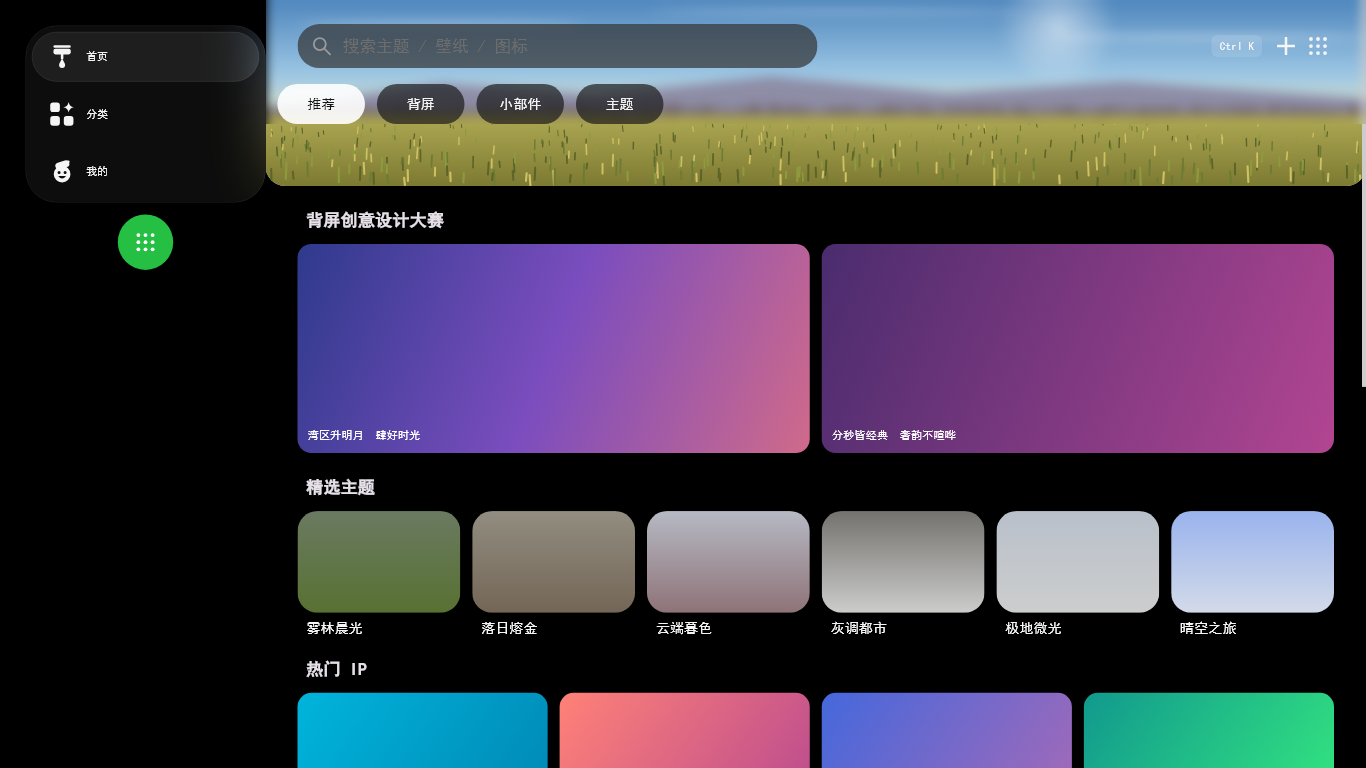
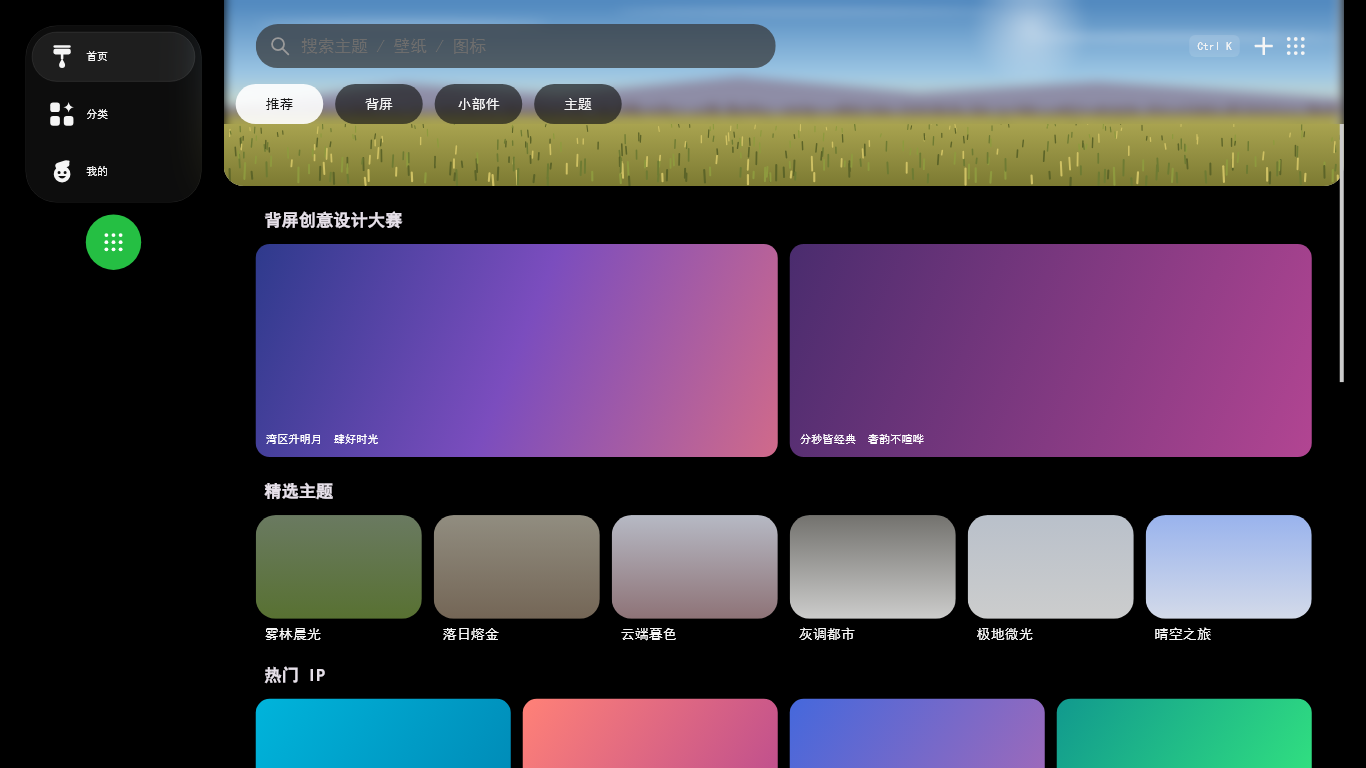
refactor(sidenav): 展开栏 240 → 176dp，按标签实际字号重推（「太宽了」）
「首页」的选中胶囊在 240 栏里 70% 是空白：推导时把标签当成 13.85dp
（pillLabel 胶囊标签的字号），展开态实际用 navLabel = 10.5dp。

重推：2×内缩18 + 图标24 + 间距12 + 标签 + 2×6.6
      = 2 字 106 / 6 字 148 / 8 字 169 → 取 176（留一档余量）
2 字标签尾部空白 133.8 → 69.8dp；派生 expandedItemWidth 162.8、
expandedGutterWidth 201.5；相关注释里「240 吃三成画布 / 剩 ≥758dp」
改为「201.5 吃 26% / 剩 ≥822dp」。

连带更正模糊预算：上一批注释的 214,182 是按手机高 156 估算的，
实际桌面 headerTopInset = 24 → 高 124。逐层实测（scratch 打
BackdropFilter size+origin）：顶栏 1120×124 + 展开栏 176×177.1
= 170,050dp²（2 层）；README 桌面「我的」77,900 是窄栏时代实测、
已过期 → 92,174。手机 75,701/35,799、平板 117,843/52,142 实测不变。
阈值 220,000 → 175,000（实测 +3%，与手机/平板同幅度），
桌面「我的」纳入断言（≤95,000），README 表从此有测试守着。

栏收窄后剩余宽 1164.5 首次触到内容列上限 → 断言改「封顶 1120」。

验证：244 例全绿、analyze 0 error；手机/平板预览图零变化。

diff --git a/test/desktop_nav_test.dart b/test/desktop_nav_test.dart
@@ -12,7 +12,7 @@ import 'package:mi_like_ui/demo/mock_pages.dart';
 import 'package:mi_like_ui/src/components/navigation/glass_side_nav_bar/side_nav_bar_painter.dart';
 
 /// 宽屏**内容列**在给定窗口下的几何（`MiContentColumn` 1120dp 上限 + 居中）：
-/// 返回两侧留白与列宽。侧栏列宽先被扣掉（桌面档是**展开态** 265.5），剩下
+/// 返回两侧留白与列宽。侧栏列宽先被扣掉（桌面档是**展开态** 201.5），剩下
 /// 的区域再决定列宽。
 ({double gutter, double width}) contentColumn(Size window) {
   final gutter = MiGlassSideNavMetrics.gutterWidthFor(
@@ -149,12 +149,30 @@ void main() {
       );
     });
 
-    test('展开态：240dp 带文字栏（推导值），条目宽 = 栏宽 − 2×内边距', () {
-      expect(MiGlassSideNavMetrics.expandedRailWidth, 240);
+    test('展开态：176dp 带文字栏（推导值），条目宽 = 栏宽 − 2×内边距', () {
+      expect(MiGlassSideNavMetrics.expandedRailWidth, 176);
       expect(
         MiGlassSideNavMetrics.expandedItemWidth,
-        closeTo(240 - 2 * MiGlassSideNavMetrics.railInnerPad, 1e-9),
+        closeTo(176 - 2 * MiGlassSideNavMetrics.railInnerPad, 1e-9),
       );
+      // 装得下 8 个汉字标签：2×内缩 + 图标 + 间距 + 8×标签字号 ≤ 条目宽
+      const labelChars = 8;
+      final contentNeeded = 2 * MiGlassSideNavMetrics.expandedItemInset +
+          MiGlassSideNavMetrics.iconSize +
+          MiGlassSideNavMetrics.expandedIconLabelGap +
+          labelChars * MiTypography.navLabel.fontSize!;
+      expect(
+        contentNeeded,
+        lessThanOrEqualTo(MiGlassSideNavMetrics.expandedItemWidth),
+        reason: '8 字标签应装得下（留一档余量）',
+      );
+      // 「首页」这类 2 字标签：尾部空白应显著小于首版 240 的 133.8dp
+      final shortLabelContent = 2 * MiGlassSideNavMetrics.expandedItemInset +
+          MiGlassSideNavMetrics.iconSize +
+          MiGlassSideNavMetrics.expandedIconLabelGap +
+          2 * MiTypography.navLabel.fontSize!;
+      final trailing = MiGlassSideNavMetrics.expandedItemWidth - shortLabelContent;
+      expect(trailing, lessThan(80), reason: '2 字标签尾部空白应 < 80dp');
       expect(
         MiGlassSideNavMetrics.expandedGutterWidth,
         closeTo(
@@ -163,7 +181,7 @@ void main() {
           1e-9,
         ),
       );
-      // 断点：容器宽 ≥ 1024 才展开（平板竖屏让出 240dp 不划算）
+      // 断点：容器宽 ≥ 1024 才展开（平板竖屏让出栏宽不划算）
       expect(MiBreakpoints.usesExpandedRail(1023), isFalse);
       expect(MiBreakpoints.usesExpandedRail(1024), isTrue);
       expect(MiBreakpoints.usesExpandedRail(768), isFalse);
@@ -315,7 +333,7 @@ void main() {
       expect(pillPainter(tester).palette.scrimGradient, isNotNull);
     });
 
-    testWidgets('展开态：240dp 带文字栏，胶囊满宽、纵向节奏与窄栏同源', (tester) async {
+    testWidgets('展开态：176dp 带文字栏，胶囊满宽、纵向节奏与窄栏同源', (tester) async {
       setWindow(tester, const Size(400, 600));
       addTearDown(tester.view.reset);
 
@@ -755,7 +773,7 @@ void main() {
       // 铺满：画面 = 窗口，四周没有留白 / 圆角卡片（页面底色仍铺满窗口，
       // 只是内容列限宽 1120 并居中）
       expect(rail.left, closeTo(MiGlassSideNavMetrics.railMargin, 0.01));
-      // 桌面档（≥1024）换**展开栏**：240dp 带文字标签
+      // 桌面档（≥1024）换**展开栏**：176dp 带文字标签
       expect(
         rail.width,
         closeTo(MiGlassSideNavMetrics.expandedRailWidth, 0.01),
@@ -795,8 +813,13 @@ void main() {
             MiGlassSideNavMetrics.expandedGutterWidth + col.gutter, 0.01),
           reason: '页面应落在展开侧栏右侧的内容列里（列宽上限 1120 + 居中）');
       expect(page.top, closeTo(0, 0.01));
-      // 展开栏让出 265.5 后剩 1100.5 < 1120 → 列宽取剩余宽（上限没到）
-      expect(col.width, closeTo(window.width - MiGlassSideNavMetrics.expandedGutterWidth, 0.01));
+      // 展开栏让出 201.5 后剩 1366 − 201.5 = 1164.5 > 1120 → 列宽取**上限**
+      // 1120（栏收窄后腾出的空间反而先触到列宽封顶）
+      expect(
+        col.width,
+        closeTo(MiBreakpoints.contentMaxWidth, 0.01),
+        reason: '剩余宽超过内容列上限，应封顶在 1120',
+      );
       expect(page.width, closeTo(col.width, 0.01));
       expect(page.height, closeTo(window.height, 0.01));
       // 内容完整落在窗口内

diff --git a/test/perf_budget_test.dart b/test/perf_budget_test.dart
@@ -88,23 +88,31 @@ void main() {
 
   testWidgets('深色·桌面 1366×768：侧栏只多一层模糊', (tester) async {
     addTearDown(tester.view.reset);
-    // 桌面档：铺满窗口（1366）+ **展开侧栏**（240dp 带文字，≥1024 换形态）→
-    // 内容列 = 1366 − 265.5 = 1100.5（还没到 1120 上限），头部区那一段
-    // 1100.5 × 156 = 171,678 + 展开栏 240 × 177.1 = 42,504 → 214,182dp²，
-    // 仍只有 2 层。
+    // 桌面档（实测分层，`scratch_perf_print_test` 量的每层几何）：
+    //  * 顶栏磨砂 1120 × **124** = 138,880 —— 列宽 1366 − 201.5 = 1164.5 已触
+    //    内容列上限 1120；高 124 = 桌面 `headerTopInset` **24** + 搜索栏 44.1
+    //    + 间隙 16 + 胶囊行 39.9（⚠ 不是手机的 156：上一批按 156 估算出
+    //    214,182 是**错的**，那会高估 35k）；
+    //  * 展开侧栏 176 × 177.1 = 31,170（栏宽从 240 收到 176）。
+    //  合计 **170,050dp² / 2 层**。
     //
-    // 面积比窄栏时代（191,615）多 ~22,500：展开栏比窄栏宽 144.6dp，这是
-    // 「常驻侧栏带文字」的固有代价 —— 换来的是桌面档不再让图标悬在空白里、
-    // 条目可读性与 Material / Windows Settings 同档。层数没变（一次大 filter
-    // 比多次小 filter 便宜），阈值按新形态重标。
+    // 对照：窄栏时代（95.4 栏、顶栏 156 高）= 191,615；本档降了 ~21k ——
+    // 收窄栏宽 + 桌面顶栏顶部让位 24 两处一起省的。层数没变（一次大 filter
+    // 比多次小 filter 便宜），阈值按实测值 +3% 重标（与手机 / 平板档同一幅度）。
     final desktop = await measure(tester, const Size(1366, 768));
     expect(desktop.count, lessThanOrEqualTo(3), reason: '桌面 $desktop');
-    expect(desktop.area, lessThanOrEqualTo(220000), reason: '桌面 $desktop');
+    expect(desktop.area, lessThanOrEqualTo(175000), reason: '桌面 $desktop');
 
     // 分类页同一形态 → 同预算
     final showcase = await measure(tester, const Size(1366, 768), tab: '分类');
     expect(showcase.count, lessThanOrEqualTo(3), reason: '桌面分类 $showcase');
-    expect(showcase.area, lessThanOrEqualTo(220000), reason: '桌面分类 $showcase');
+    expect(showcase.area, lessThanOrEqualTo(175000), reason: '桌面分类 $showcase');
+
+    // 「我的」= 大标题形态的**渐进曲线**（5 段 × 1120 宽，σ 阶梯在压色实心
+    // 段之下先剔掉 3 段）+ 展开栏 → 实测 6 层 / 92,174。
+    final mine = await measure(tester, const Size(1366, 768), tab: '我的');
+    expect(mine.count, lessThanOrEqualTo(6), reason: '桌面我的 $mine');
+    expect(mine.area, lessThanOrEqualTo(95000), reason: '桌面我的 $mine');
   });
 
   testWidgets('深色顶栏：不透明叠色段内不绘制模糊', (tester) async {

diff --git a/lib/src/components/navigation/glass_side_nav_bar/side_nav_bar_metrics.dart b/lib/src/components/navigation/glass_side_nav_bar/side_nav_bar_metrics.dart
@@ -55,13 +55,25 @@ class MiGlassSideNavMetrics {
   // 纵向节奏（条目高 / 内边距 / 间隙），横向按「图标 + 文字」的通行
   // 桌面侧栏形态给值。
 
-  /// 展开态栏宽 **240**：图标 24 + 间距 12 + 标签区 ~150（4 个汉字 13.85dp
-  /// ≈ 55，留两倍余量给更长文案与尾部呼吸），再加两侧内边距 6.6×2 与
-  /// 条目内容内缩 18×2 —— 与 Material / Windows Settings 常驻侧栏
-  /// （200…320）同量级。
-  static const double expandedRailWidth = 240;
+  /// 展开态栏宽 **176**：按展开态实际字号 `MiTypography.navLabel`（10.5dp，
+  /// 与底部栏同款）重推 ——
+  ///
+  /// `2×内缩 18 + 图标 24 + 间距 12 + 标签 + 2×栏内边距 6.6`：
+  ///  * 2 字（首页 / 分类 / 我的）→ 标签 21 → 栏 **106.2**；
+  ///  * 6 字 → 标签 63 → 栏 **148.2**；
+  ///  * 7 字 → 标签 73.5 → 栏 **158.7**；
+  ///  * 8 字 → 标签 84 → 栏 **169.2**。
+  ///
+  /// 取 176 = 8 字上限 169.2 再留一档余量（西文混排 / 字距）。首版取的 240
+  /// 是**错的**：推导时把标签当成 13.85dp（那是 `pillLabel` 胶囊标签的字号）
+  /// 又翻倍留量，实际展开态用 10.5dp —— 结果「首页」的选中胶囊 70% 是空白。
+  ///
+  /// 与 Material / Windows Settings 常驻侧栏（200…320）比偏窄，但那两家的
+  /// 标签普遍 6…8 字且字号 13…14；本库标签 10.5dp、常见 2…4 字，宽度该跟着
+  /// 内容走而不是跟着别人的栏走。
+  static const double expandedRailWidth = 176;
 
-  /// 展开态条目（选中胶囊）宽 = 栏宽 − 2×内边距 = 226.8。
+  /// 展开态条目（选中胶囊）宽 = 栏宽 − 2×内边距 = 162.8。
   static const double expandedItemWidth = expandedRailWidth - 2 * railInnerPad;
 
   /// 展开态条目内容（图标左缘）到胶囊左缘的内缩。
@@ -70,7 +82,7 @@ class MiGlassSideNavMetrics {
   /// 展开态图标 → 标签间距（[MiDimens.spaceMd] 档）。
   static const double expandedIconLabelGap = MiDimens.spaceMd;
 
-  /// 展开态侧栏占用列的总宽（= 留白 + 展开栏宽 = 265.5）。
+  /// 展开态侧栏占用列的总宽（= 留白 + 展开栏宽 = 201.5）。
   static const double expandedGutterWidth = railMargin + expandedRailWidth;
 
   /// 侧栏列宽（按形态取窄栏 / 展开栏），示例外壳给内容让位时用它。

diff --git a/lib/src/utils/responsive.dart b/lib/src/utils/responsive.dart
@@ -71,10 +71,10 @@ class MiBreakpoints {
   static const double desktop = 1024;
 
   /// **展开侧栏断点**：画面容器宽 ≥ 该值时，侧边导航栏换**带文字标签的
-  /// 展开态**（约 240dp），否则用窄栏（95.4dp，只有图标 + 小字）。
+  /// 展开态**（176dp），否则用窄栏（95.4dp，只有图标 + 小字）。
   ///
-  /// 取 [desktop] 同值（**推导值**）：平板竖屏（768）让出 240dp 会吃掉
-  /// 三成画布宽，不划算；桌面（≥1024）让出 240dp 之后仍剩 ≥758dp，
+  /// 取 [desktop] 同值（**推导值**）：平板竖屏（768）让出展开栏 + 留白
+  /// （201.5）会吃掉 26% 画布宽，不划算；桌面（≥1024）让出之后仍剩 ≥822dp，
   /// 而常驻侧栏带文字是桌面应用的通行形态（Material / Windows Settings /
   /// MReader 桌面档同款）。
   static const double expandedRail = desktop;

diff --git a/lib/src/components/navigation/glass_side_nav_bar/side_nav_bar.dart b/lib/src/components/navigation/glass_side_nav_bar/side_nav_bar.dart
@@ -86,7 +86,7 @@ class MiGlassSideNavBar extends StatefulWidget {
   ///
   ///  * `false`（默认）：窄栏 95.4dp —— 图标在上、小字标签在下（与底部栏
   ///    同一套度量纵向换轴），平板 / 窄窗用；
-  ///  * `true`：展开栏 [MiGlassSideNavMetrics.expandedRailWidth]（240dp）——
+  ///  * `true`：展开栏 [MiGlassSideNavMetrics.expandedRailWidth] ——
   ///    图标在左、标签在右、整条目是一个胶囊，桌面用。全部几何取
   ///    [MiGlassSideNavMetrics] 的展开态推导值；纵向节奏（条目高 / 间隙 /
   ///    内边距 / 飞行-沉降-按压动效）与窄栏逐帧同源。

diff --git a/lib/demo/demo_app.dart b/lib/demo/demo_app.dart
@@ -242,7 +242,7 @@ class _DemoHomeState extends State<DemoHome> {
             builder: (context, constraints) {
               final sideNav = MiBreakpoints.usesSideNav(constraints.maxWidth);
               // 展开侧栏（带文字标签）：容器宽 ≥ 1024 才换 —— 平板竖屏让出
-              // 240dp 会吃掉三成画布，桌面让出后仍剩 ≥758dp。
+              // 展开栏 + 留白（201.5）会吃掉 26% 画布，桌面让出后仍剩 ≥822dp。
               final expandedRail =
                   sideNav && MiBreakpoints.usesExpandedRail(constraints.maxWidth);
               return Container(

diff --git a/.workbuddy/memory/MEMORY.md b/.workbuddy/memory/MEMORY.md
@@ -104,13 +104,17 @@
 - 截含光标的页面**不能 pumpAndSettle** → 固定 pump 到确定时长。
 
 ## 宽屏第二批配方（2026-10-23，全部推导 —— 素材只有手机档）
-- **展开侧栏** `MiGlassSideNavBar.expanded`：容器 ≥1024（`usesExpandedRail`）换 **240dp**（`expandedItemWidth` 226.8、内缩 18、图文距 12），条目横排 icon+label；平板仍窄栏 95.4。⚠ 横排 Row **必须钉 `expandedItemWidth` 定宽**（外层 Column 是居中对齐，不定宽会按自然宽居中、内缩不从胶囊左缘量起）。
+- **展开侧栏** `MiGlassSideNavBar.expanded`：容器 ≥1024（`usesExpandedRail`）换 **176dp**（`expandedItemWidth` 162.8、内缩 18、图文距 12），条目横排 icon+label；平板仍窄栏 95.4（展开栏+留白 201.5 = 768 的 26%）。
+  - ⚠ **首版 240 是错的**（用户反馈「太宽了」）：推导时把标签当成 13.85dp（那是 `pillLabel` 胶囊标签的字号），展开态实际用 `navLabel` = **10.5dp** → 2 字标签的胶囊 70% 是空白。正确反推：`2×内缩18 + 图标24 + 间距12 + 标签 + 2×6.6` = 2 字 106 / 6 字 148 / 8 字 169 → 取 176。**宽度跟着内容走，先确认字号再算**。
+  - ⚠ 横排 Row **必须钉 `expandedItemWidth` 定宽**（外层 Column 是居中对齐，不定宽会按自然宽居中、内缩不从胶囊左缘量起）。
 - **顶栏三参数**（手机传默认值逐像素不变）：`headerTopInset` 桌面 **24**、`searchBarMaxWidth` 桌面 **520**、`actions` 右侧动作区（搜索转场淡出退排版）。`_searchRow` 分手机 Stack / 宽屏 Row 两条路径，**手机路径一字不动**。
 - **桌面弹窗** `MiDialogMetrics.isWide(容器 ≥1024)`：居中限宽 **440**、圆角 **16**、`position` 失效；手机档用 `left/right=sideMargin` **自适应**（写死 width 369.2 会让窄容器溢出、平板原行为是撑满边距之间）。正文行数按**实际卡宽**排版。
 - **桌面路由** `MiCardPageRouteMetrics.isWide(窗口 ≥1024)`：**4dp 抬起 + 同色幕布**（`ColoredBox` 页底色 alpha 1→0）**220ms**（`Interval(0,0.55)` 落在原 400ms 里 —— `transitionDuration` 构造期定死、拿不到窗口宽）、圆角 ≤16；下层无视差不压暗。⚠ **淡入禁用 `Opacity`/`FadeTransition`**（新页含磨砂顶栏，saveLayer 清空自己的 backdrop）→ 用同色幕布。测试读 alpha 用 `MiCardPageRoute.wideVeilKey`。
 - **悬停快捷操作** `MiThemeCard.quickActions`：黑@45%（token `cardQuickActionsScrim`）+ `AnimatedSlide` 滑入（Transform 无 saveLayer）、`IgnorePointer.ignoring` 联动；`quickActions==null` 不挂（手机档）。悬停态由 `MiHoverFeedback.onHoverChanged` 单点维护。
 - **滚动降 σ** `MiGradientBlur.sigmaScale` / `MiTopBar.sigmaScale`（默认 1.0）：demo 滚动中 0.6、停 120ms 恢复。形状（段位/段高）不变只改强度，低于 `minVisibleSigma` 的尾段照常剔除；两档 σ 各自进 `MiFilterCache`。
-- **桌面模糊预算**：1366 面积 191,615 → **214,182 dp²**（展开栏宽 +144.6，**层数仍 2**），阈值 196,000 → **220,000**（README 表已同步）。
+- **桌面模糊预算**：1366 实测 **170,050 dp²**（2 层 = 顶栏 1120×**124** + 展开栏 176×177.1），比窄栏时代的 191,615 低 ~21k；阈值 **175,000**（按实测 +3%，与手机 78k / 平板 122k 同幅度）。README 表的手机 75,701 / 35,799、平板 117,843 / 52,142 是对的。
+  - ⚠ **性能/几何数字必须实测，别按推算写进注释**：上一批把桌面顶栏高度按手机的 **156** 算（实际 `headerTopInset` 桌面 24 → 高 **124**），得出 214,182 并写进了 README/CHANGELOG/阈值 —— 实测是 178,966，错 35k。查法：scratch 测试遍历 `BackdropFilter` 打 `size + localToGlobal`（`.workbuddy/scratch_*_test.dart`，跑完删）。
+  - 桌面「我的」页 = 5 段渐进曲线（1120 宽，压色实心段下先剔 3 段）+ 展开栏 = 6 层 / 92,174（旧 README 的 77,900 是窄栏 95.4 时代的实测，也过期了）。
 
 ## 工具
 - 像素脚本 `.workbuddy/measure_*.py / extract_*.py / fit_*.py`（PIL，非交付物，不入库）；venv `C:\Users\zmt\.workbuddy\binaries\python\envs\default\Scripts\python.exe`（`imageio` 可抽帧，ffmpeg 不在 PATH）。

diff --git a/CHANGELOG.md b/CHANGELOG.md
@@ -11,11 +11,15 @@
 - **宽屏第二批：展开侧栏 / 顶栏收敛 / 键盘 / 桌面弹窗与转场 / 悬停操作条**
   （2026-10-23，反馈「全做」——补齐桌面档的形态、交互与动效）
   - **展开态侧边导航栏**（`MiGlassSideNavBar.expanded` + `MiGlassSideNavMetrics`
-    展开档）：桌面档（容器宽 ≥ 1024，`MiBreakpoints.usesExpandedRail`）换 240dp
-    **带文字标签**的常驻侧栏 —— 图标在左、标签在右、整条目一个胶囊。240 是
-    **推导值**（图标 24 + 间距 12 + 标签区 ~150 + 两侧内缩，与 Material /
-    Windows Settings 的 200…320 同量级）；纵向节奏（条目高 / 间隙 / 飞行-沉降-
-    按压动效）与窄栏逐帧同源。平板竖屏仍走窄栏（让出 240dp 会吃掉三成画布）
+    展开档）：桌面档（容器宽 ≥ 1024，`MiBreakpoints.usesExpandedRail`）换 176dp
+    **带文字标签**的常驻侧栏 —— 图标在左、标签在右、整条目一个胶囊。176 是
+    **推导值**，按标签实际字号 10.5dp 反推（2×内缩 18 + 图标 24 + 间距 12 +
+    标签 + 2×内边距 6.6；2 字 106 / 6 字 148 / 8 字 169，取 176 留一档余量）；
+    纵向节奏（条目高 / 间隙 / 飞行-沉降-按压动效）与窄栏逐帧同源。平板竖屏仍
+    走窄栏（展开栏 + 留白占 768 宽的 26%）。
+    > 首版 240 是错的：推导时把标签当成 13.85dp（那是胶囊标签 `pillLabel`）
+    > 又翻倍留量，实际用 10.5dp —— 「首页」这类 2 字标签的选中胶囊 70% 是空白
+    > （用户反馈「太宽了」后按真实字号重推）
   - **顶栏收敛**（`MiTopBar` 三个宽屏参数，手机档传默认值逐像素不变）：
     `headerTopInset`（桌面 24 —— 推导值，窗口没有状态栏，留 56 会悬出空带）、
     `searchBarMaxWidth`（桌面 520 —— 1120 列上一条满宽搜索框难用且不像桌面应用）、
@@ -43,9 +47,10 @@
     磨砂 σ 等比压到 0.6、停下 120ms 恢复度量材质。σ 与高斯成本近似线性、运动
     掩蔽下视觉几乎无差；曲线形状（段位/段高）不变，只改强度，低于阈值的尾段
     照常剔除。两档 σ 各自走 `MiFilterCache` 缓存，来回切不新建 native filter
-  - **模糊预算重标**：桌面档展开栏比窄栏宽 144.6dp，1366 面积 191,615 →
-    214,182dp²（+22.5k，层数仍 2）——「常驻侧栏带文字」的固有代价，阈值按新
-    形态重标为 220,000
+  - **模糊预算重标**：1366 实测 191,615 → **170,050dp²**（层数仍 2）——
+    收窄栏宽（176）与桌面顶栏顶部让位 24（顶栏高 156 → 124）两处一起省了
+    ~21k；阈值按实测 +3% 收紧为 175,000。首版注释里的 214,182 是按 156 高
+    **估算**的错值（实测分层：1120×124 + 176×177.1），本次一并更正
 
 - **宽屏布局基础件**（2026-10-23，反馈「移动端尚可，桌面端和平板表现一般」）
   - **`MiContentColumn` + `MiBreakpoints.contentMaxWidth`（1120dp）**：把内容限制在

diff --git a/.workbuddy/memory/2026-10-23.md b/.workbuddy/memory/2026-10-23.md
@@ -65,3 +65,31 @@
 - **验证**：244 例全绿、analyze 0 error/warning；**手机/平板预览图零变化**，
   只有 adaptive_desktop{,_light,_showcase} 三张重生成。CHANGELOG 加第二批条目，
   README 更新侧栏两形态表 / 顶栏参数 / 宽屏配方 +5 行 / 新增「键盘可达性」节。
+
+## 展开栏 240 → 176（用户反馈「这个会不会太宽了」）
+
+- **判断依据**：量「首页」在 240 栏里的实际占用 —— 胶囊 226.8，内容区 190.8，
+  实际内容只 57（图标 24 + 间距 12 + 2 字×10.5）→ **尾部空白 133.8 = 70% 空**。
+- **根因**：推导时把标签当成 13.85dp（那是 `pillLabel` 胶囊标签字号），
+  展开态实际用 `navLabel` = **10.5dp**（底部栏同款），又翻倍留量 → 240。
+- **重推**：`2×内缩18 + 图标24 + 间距12 + 标签 + 2×栏内边距6.6`
+  = 2 字 106.2 / 6 字 148.2 / 8 字 169.2 → 取 **176**（留一档余量）。
+  2 字尾部空白 133.8 → **69.8**（halved）。
+- **派生值同步**：`expandedItemWidth` 226.8 → 162.8、`expandedGutterWidth`
+  265.5 → 201.5；`responsive.dart` / `demo_app.dart` / README / CHANGELOG 注释里
+  「让出 240 吃三成画布」→「201.5 吃 26%」、「仍剩 ≥758dp」→「≥822dp」。
+- **连带修正：模糊预算注释里的数是估的、不是实测**（用户反馈让我去量才发现）：
+  - 逐层实测（scratch 打 `BackdropFilter` size+origin）：顶栏 **1120×124**
+    （桌面 `headerTopInset` 24 → 高 124，不是手机的 156；列宽触 1120 上限）
+    + 展开栏 176×177.1 = **170,050dp²**。
+  - 上一批写的 **214,182 是错的**（按 156 高算，实际 178,966）；README 的
+    桌面「我的」**77,900 是窄栏时代**的实测、现已过期（实际 92,174 = 5 段渐进
+    曲线×1120 + 展开栏）。
+  - 全档三页重测：手机 75,701/35,799、平板 117,843/52,142 —— 这两个**没变**、
+    README 原来就是对的；只有桌面两格改。
+  - 阈值 220,000 → **175,000**（实测 +3%，与手机 78k / 平板 122k 同幅度），
+    并把桌面「我的」也纳入断言（≤95,000），README 表从此有测试守着。
+- **测试**：`contentColumn` helper 已从常量推导（自动跟），但断言
+  「列宽 = 窗口 − gutter」要改成「封顶 1120」—— 栏收窄后剩余 1164.5 反而
+  首次触到列宽上限（`1366 − 201.5 = 1164.5 > 1120`）。
+- **验证**：244 例全绿、analyze 0 error/warning；只有 3 张桌面预览图重生成。
